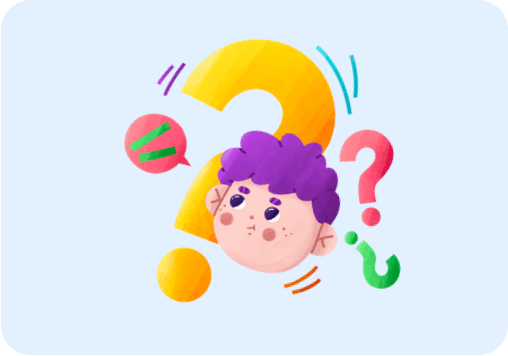
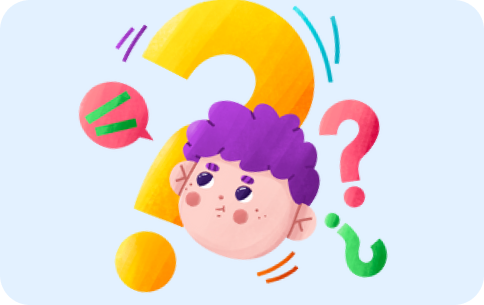
fix IntroSection layout

Changed region(s): [[0.155, 0.0, 0.8058, 0.9738]]

diff --git a/src/components/modules/IntroSection/IntroSection.tsx b/src/components/modules/IntroSection/IntroSection.tsx
@@ -2,54 +2,38 @@ import { NextImage } from '@/elements/NextImage/NextImage'
 
 export const IntroSection = () => {
   return (
-    <div className='flex flex-col'>
-      <div className='flex justify-center'>
-        <div className='w-full md:w-4/5 lg:w-3/5 xl:w-2/5'>
-          <h1 className='text-center font-bold'>
-            Intro To <span className='text-primary-500'> Gunadarma I/O</span>
-          </h1>
-          <p className='pt-5 text-center'>
-            Here we thrive, inspire, give and connect, in dedication of our members individual and collective success
+    <section id='intro'>
+      <h1 className='text-center font-bold'>
+        Intro To <span className='text-primary-500'> Gunadarma I/O</span>
+      </h1>
+      <p className='mt-5 text-center'>
+        Here we thrive, inspire, give and connect, in dedication of our members individual and collective success
+      </p>
+      <div className='flex flex-col-reverse items-center sm:mt-10 sm:flex-row'>
+        <div className='mt-5 w-full sm:mt-0 sm:w-3/5'>
+          <p className='text-center sm:mr-10 sm:text-left'>
+            We are here as a community engaged in competitive programming. Competitive programming is a branch of
+            advanced programming science that is the development and manifestation of the data structures & algorithms
+            fields
+          </p>
+        </div>
+        <div className='mt-5 w-full sm:mt-0 sm:w-2/5'>
+          <NextImage width='484px' height='305px' src='/assets/images/intro-1.png' layout='responsive' />
+        </div>
+      </div>
+      <div className='flex flex-col items-center sm:mt-10 sm:flex-row'>
+        <div className='mt-5 w-full sm:mt-0 sm:w-2/5'>
+          <NextImage width='544px' height='518px' src='/assets/images/intro-2.png' layout='responsive' />
+        </div>
+        <div className='mt-5 w-full sm:mt-0 sm:w-3/5'>
+          <p className='text-center sm:ml-10 sm:text-left'>
+            Competitive programming is also often used as a competition for IT students where the competition requires
+            participants solve a problem algorithmically through a computer program. The program must produce answers
+            within a certain time with a certain memory limit. Generally, the winners of competitive programming often
+            ogled by a tech company to join his company so that it can also be a stepping stone in start a career.
           </p>
         </div>
       </div>
-      <div className='flex flex-col pt-10'>
-        <div className='flex flex-col-reverse items-center md:flex-row'>
-          <div className='w-full p-5 md:w-3/5'>
-            <p>
-              We are here as a community engaged in competitive programming. Competitive programming is a branch of
-              advanced programming science that is the development and manifestation of the data structures & algorithms
-              fields
-            </p>
-          </div>
-          <div className='w-full md:w-2/5'>
-            <NextImage
-              className='relative h-[250px] w-full'
-              src='/assets/images/intro-1.png'
-              layout='fill'
-              objectFit='contain'
-            />
-          </div>
-        </div>
-        <div className='flex flex-col items-center md:flex-row'>
-          <div className='w-full md:w-2/5'>
-            <NextImage
-              className='relative h-[270px] w-full'
-              src='/assets/images/intro-2.png'
-              layout='fill'
-              objectFit='contain'
-            />
-          </div>
-          <div className='w-full p-5 md:w-3/5'>
-            <p>
-              Competitive programming is also often used as a competition for IT students where the competition requires
-              participants solve a problem algorithmically through a computer program. The program must produce answers
-              within a certain time with a certain memory limit. Generally, the winners of competitive programming often
-              ogled by a tech company to join his company so that it can also be a stepping stone in start a career.
-            </p>
-          </div>
-        </div>
-      </div>
-    </div>
+    </section>
   )
 }
